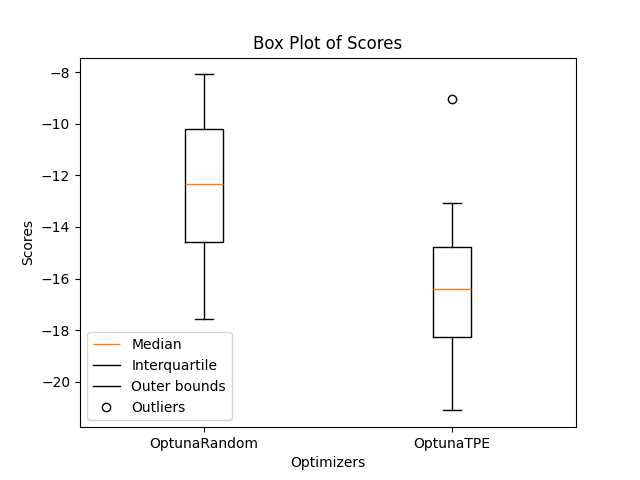
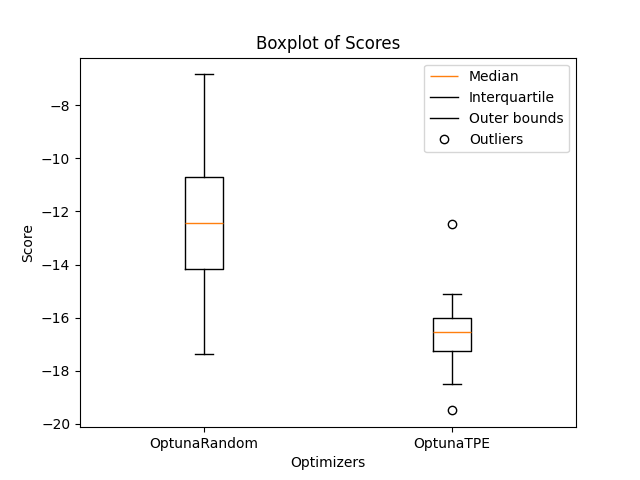
Cleanup boxplt

diff --git a/benchmark_common.py b/benchmark_common.py
@@ -15,13 +15,9 @@ benchmark_suite.add_wrapper(wrapper_zoo.fetch_optuna_tpe())
 # benchmark_suite.add_wrapper(wrapper_zoo.fetch_deap_ea())
 
 # Compare and optimize using the added wrappers
-results = benchmark_suite.benchmark(direction="minimize", n_runs=5, max_steps=20, target_score=None, verbose=True, progress_bar=True)
+results = benchmark_suite.benchmark(direction="minimize", n_runs=15, max_steps=60, target_score=None, verbose=True, progress_bar=True)
 
 # results.plot_boxplot(show=True)
-
-results.plot_runs(wrapper_name="optuna_tpe", show=True, save_dir="docs/Img")
-
-# results.plot_runs("deap_ea", show=True)
 
 # result = results.fetch_wrapper_result("deap_ea")
 # result.plot_objective_landscape(["param1", "param2"], resolution=100, show=True)

diff --git a/opticomp/_core/result_benchmark.py b/opticomp/_core/result_benchmark.py
@@ -186,9 +186,9 @@ class BenchmarkResults():
                    ['Median', 'Interquartile', 'Outer bounds', 'Outliers'],
                    loc='best')
 
-        plt.title("Box Plot of Scores")
+        plt.title("Boxplot of Scores")
         plt.xlabel('Optimizers')
-        plt.ylabel('Scores')
+        plt.ylabel('Score')
 
         if save_dir:
             os.makedirs(save_dir, exist_ok=True)
